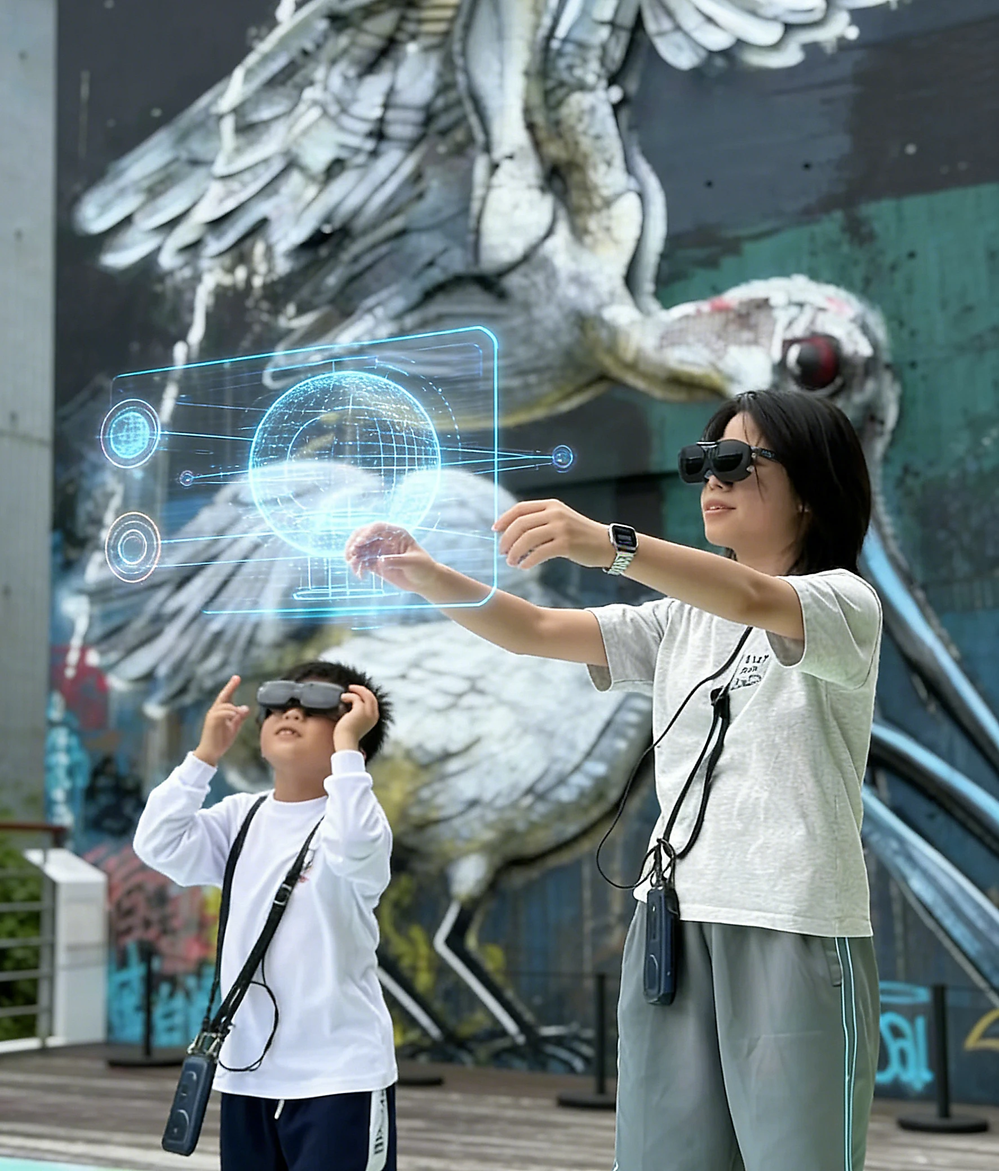
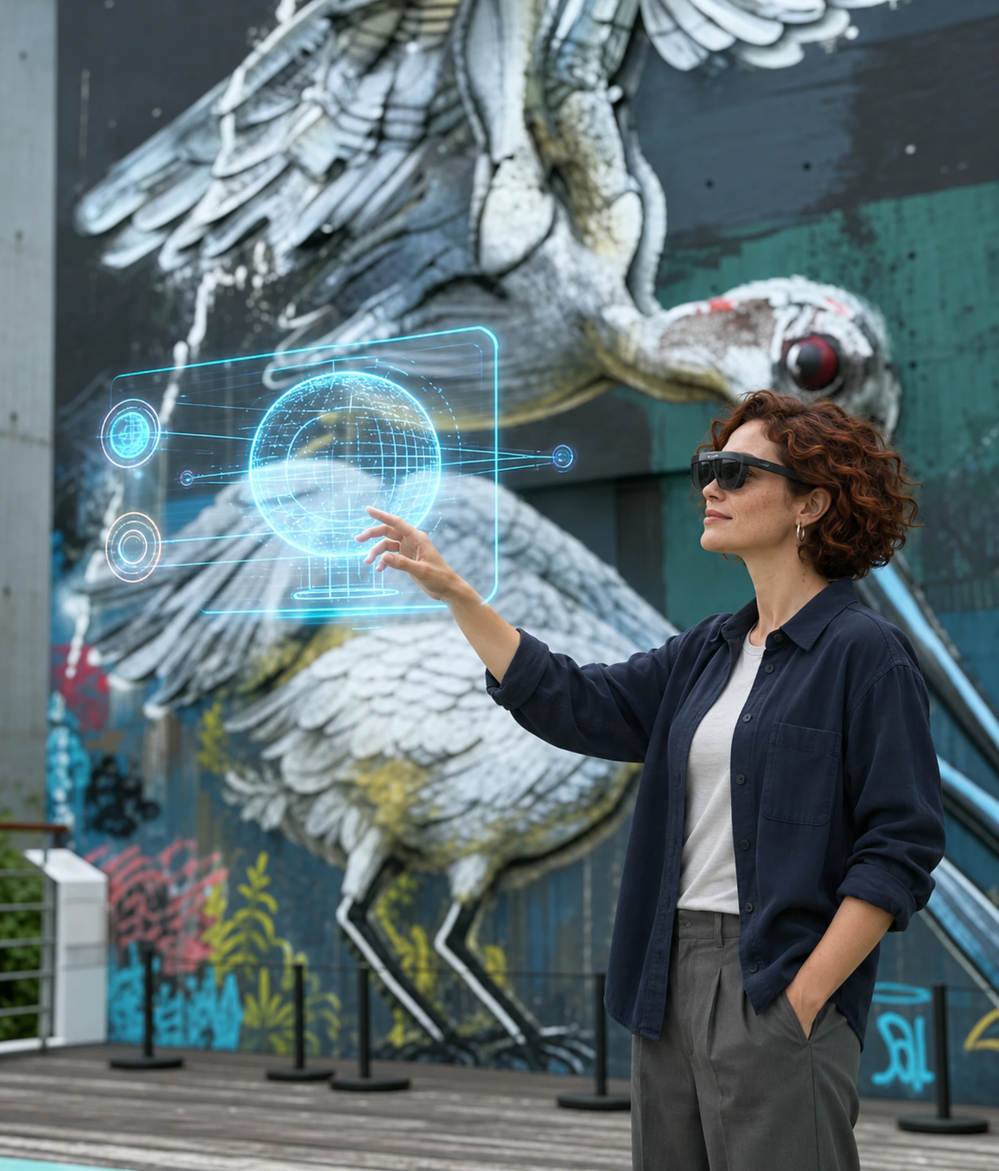
fix: replace Xiading homepage photo with fictional subject
(cherry picked from commit 1a08366c42df808fb3bc657982a024d40152d00e)

diff --git a/src/views/xiading/sections/HeroSection.vue b/src/views/xiading/sections/HeroSection.vue
@@ -79,7 +79,7 @@ onUnmounted(() => {
 
   <section id="top" class="xd-hero" aria-labelledby="xiading-hero-title">
     <div class="xd-hero__bg" aria-hidden="true">
-      <img src="/images/ar-platform/澳门AR.webp" alt="" fetchpriority="high" />
+      <img src="/images/ar-platform/澳门AR.webp?v=8869c81d017e" alt="" fetchpriority="high" />
     </div>
     <div class="xd-hero__inner">
       <div class="xd-hero__content">

diff --git a/src/views/xrugc/XrugcHomePage.vue b/src/views/xrugc/XrugcHomePage.vue
@@ -264,7 +264,7 @@ const cases = computed(() => [
         </div>
       </div>
       <div class="mu-hero__visual reveal">
-        <img src="/images/ar-platform/澳门AR.webp" alt="XR UGC Platform" />
+        <img src="/images/ar-platform/澳门AR.webp?v=8869c81d017e" alt="XR UGC Platform" />
         <div class="mu-hero__visual-glow"></div>
       </div>
     </section>
